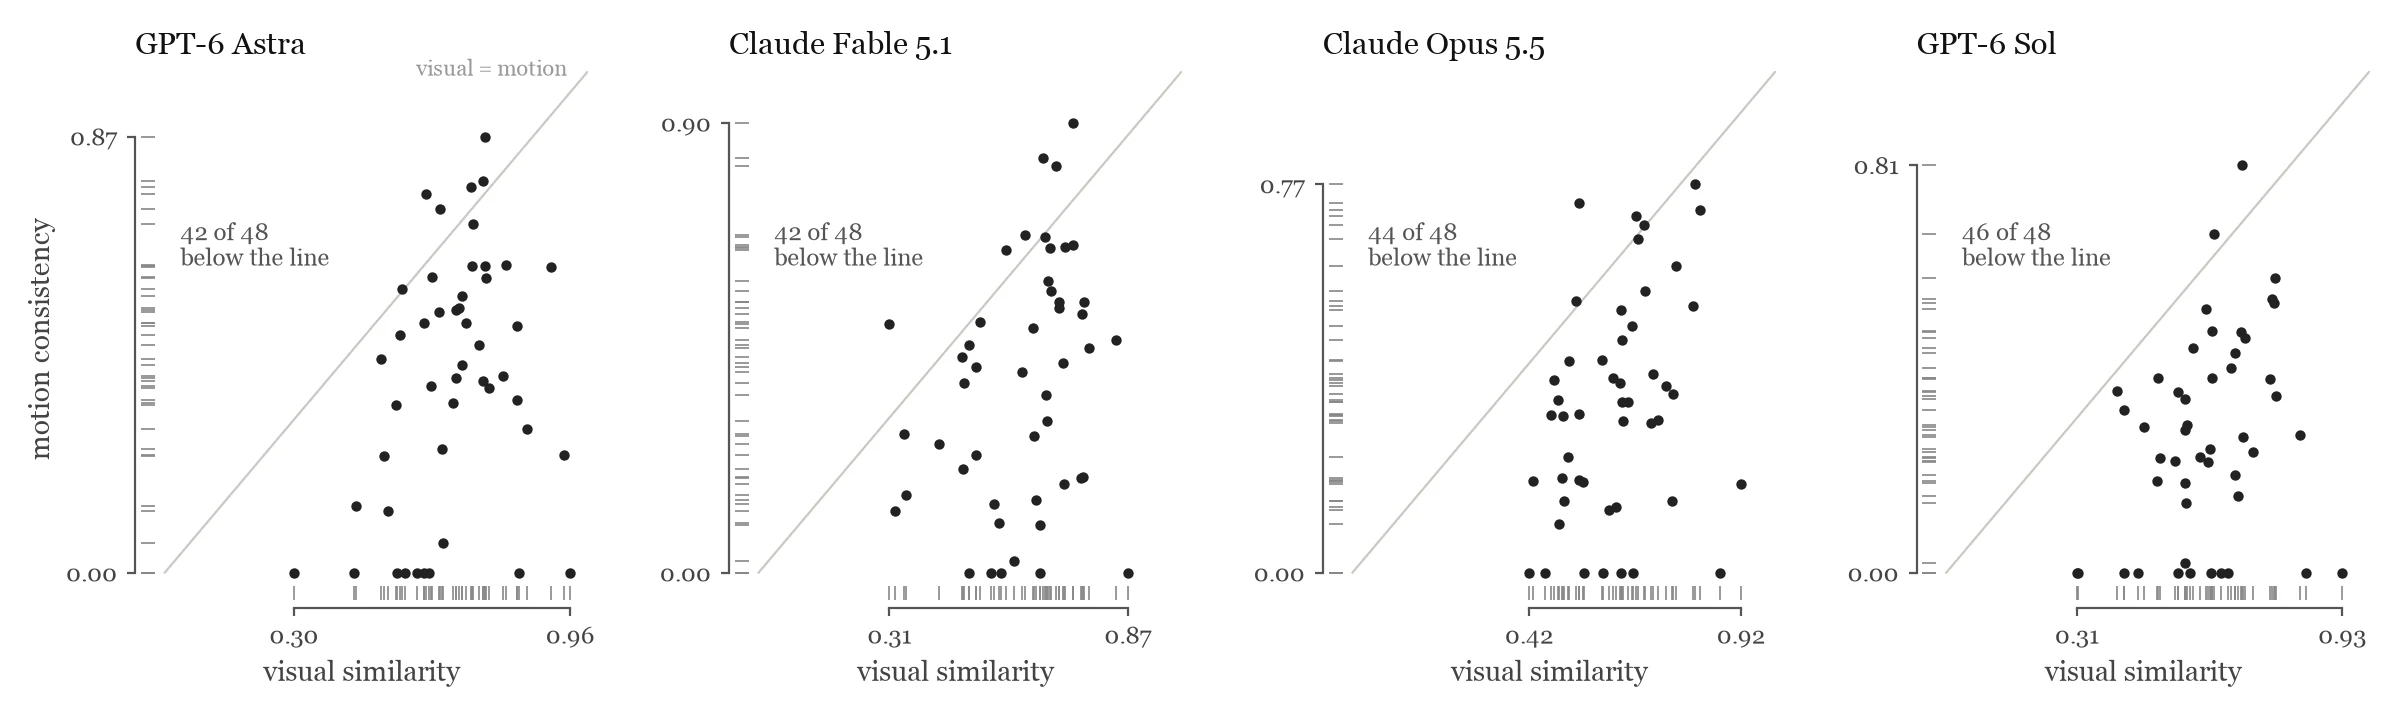
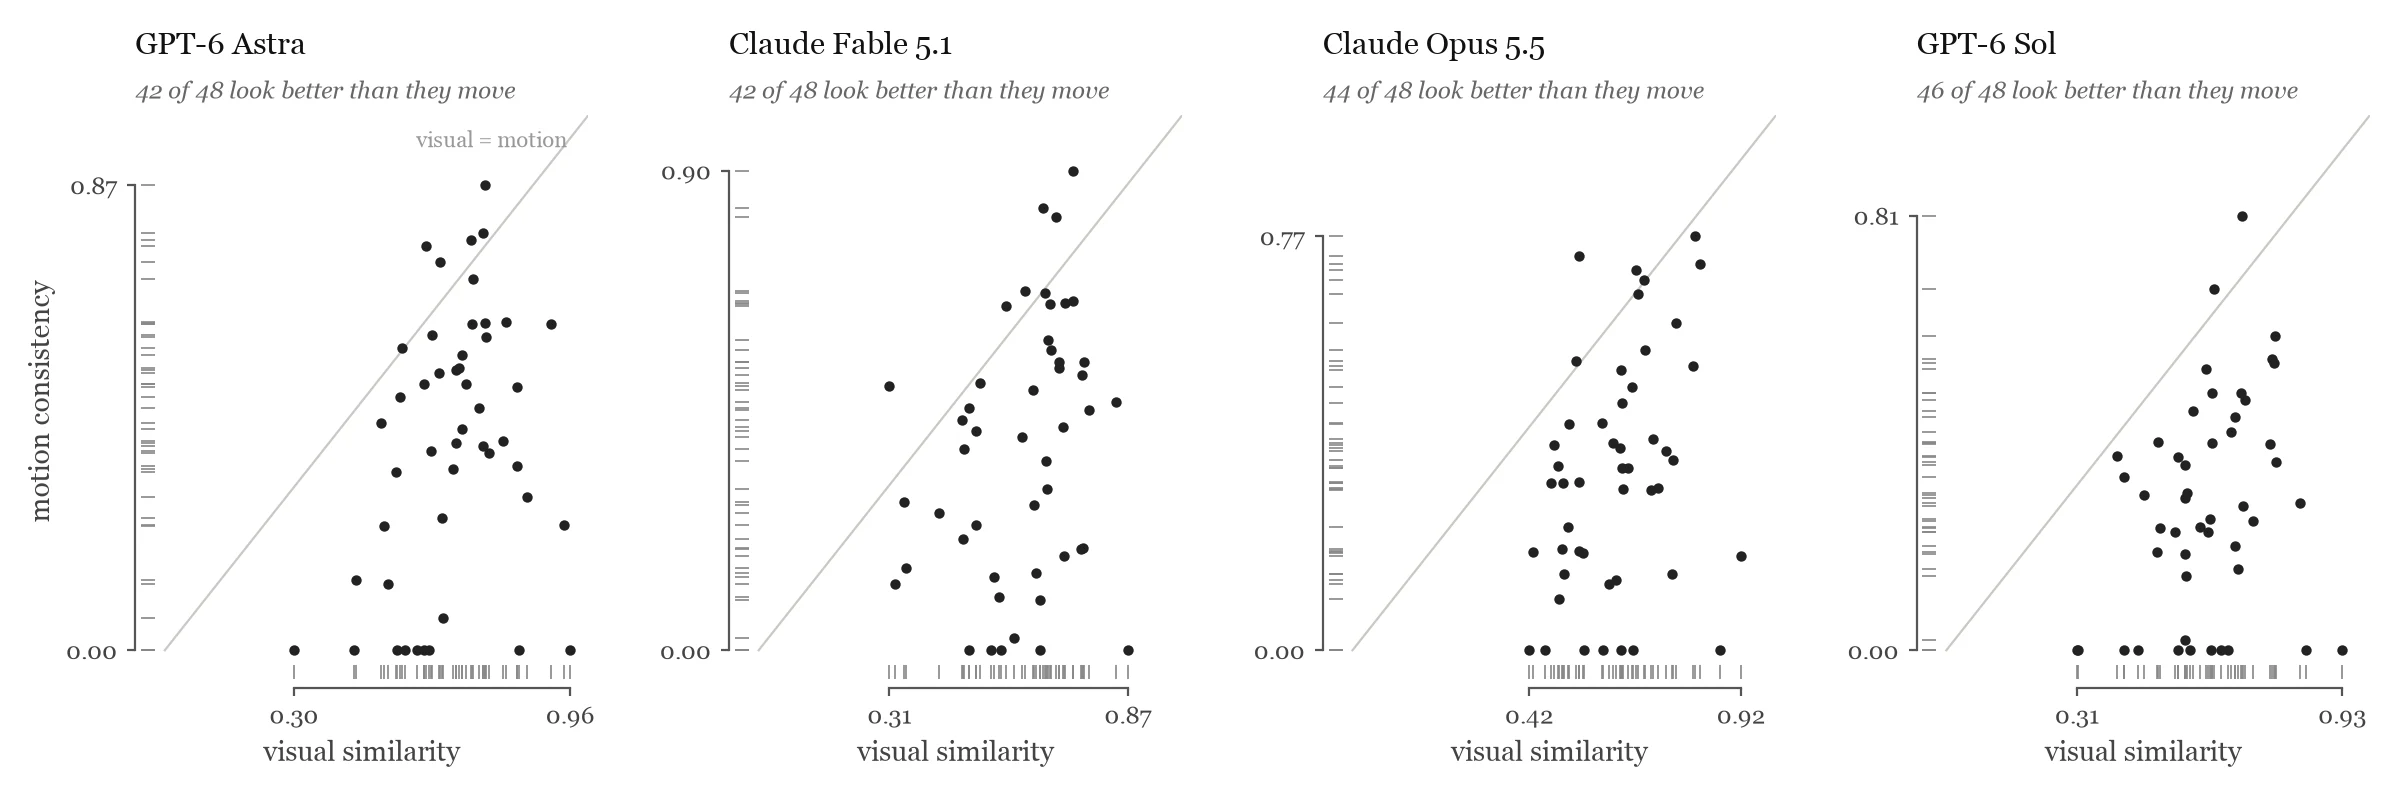
Animation Bench: clearer results chart, all-model Wispr video, why the Wispr case is hard

diff --git a/app/research/animation-bench/page.tsx b/app/research/animation-bench/page.tsx
@@ -325,7 +325,7 @@ export default function AnimationBenchPage() {
                 <p className={P}>The four models are, on the whole, closer together than a leaderboard makes them look.</p>
                 <p className={P}><strong>The field is close.</strong> GPT-6 Astra leads with a mean of 0.550 and GPT-6 Sol trails at 0.470, a spread of 0.079 across 48 tasks. Resampling the tasks (10,000 paired draws, 95% intervals), only two of the six pairwise differences hold: Astra over Sol (+0.079; +0.045 to +0.115) and Astra over Opus 5.5 (+0.051; +0.020 to +0.086). Astra’s margin over Fable 5.1 sits at the edge (+0.001 to +0.060); the rest cannot be told apart. The models also largely agree on which tasks are hard (Kendall τ 0.42–0.62 between any two), which suggests the tasks, more than the models, set the ceiling.</p>
                 <p className={P}><strong>Every model is weakest on motion.</strong> Each reproduces how a page looks far better than how it moves: visual similarity lies between 0.61 and 0.68, motion consistency between 0.27 and 0.38. Visual exceeds motion in 174 of the 192 reconstructions, by 0.30 on average, and the two are only loosely related (r = 0.30). A page that looks right is scarcely more likely to move right.</p>
-                <Fig src="/animation-bench/ab-visual-vs-motion.webp" alt="Four small scatter plots, one per model, of visual similarity against motion consistency; most points fall below the diagonal." caption="Each dot is one reconstruction. Points below the grey line look better than they move. Ticks along each axis mark every value, and the axes span only the range the data covers." />
+                <Fig src="/animation-bench/ab-visual-vs-motion.webp" alt="Four small scatter plots, one per model, of visual similarity against motion consistency; most points fall below the diagonal." caption="Each dot is one page a model built. Dots below the diagonal look better than they move: 174 of 192 do." />
                 <p className={P}><strong>Money does not settle it.</strong> Mean spend per task runs from $0.45 for Sol to $3.89 for Fable 5.1, close to a ninefold difference, against a spread in score of 0.079. Astra, at $3.04, is both the strongest and the second most expensive. Within each model, the tasks it spent more on did not score higher (Spearman ρ from −0.41 to +0.09).</p>
 
               <h2 id="failures" className="bench-h2 scroll-mt-24">What frontier models get wrong</h2>
@@ -345,7 +345,7 @@ export default function AnimationBenchPage() {
                     <li>From about 8.2 s to 9.3 s the letters of <em>Notetaker</em> ripple: each lifts and drops in turn, left to right.</li>
                     <li>By about 10.7 s the thumb slides back to <em>Dictation</em>.</li>
                   </ul>
-                  <Vid src="/animation-bench/ab-wispr-opus-fable.mp4" label="Wispr Flow toggle: the reference beside Claude Opus 5.5 and Claude Fable 5.1" caption="Wispr Flow toggle. Claude Opus 5.5 slides on time and never returns (motion 0.53); Claude Fable 5.1 starts already switched and returns on time (motion 0.46)." />
+                  <Vid src="/animation-bench/ab-wispr-all-models.mp4" label="Wispr Flow toggle: the reference above all four models" caption="Wispr Flow toggle, the reference and all four models. Opus 5.5 slides on time and never returns (motion 0.53); Fable 5.1 starts already switched and returns on time (0.46); Sol and Astra slide late, and neither ripples as the original does (0.27, 0.29)." />
                   <p className={P}>Every model recognised the component and reproduced its appearance (visual 0.80–0.85, layout ≈ 0.96 for all four). Two models also recognised the ripple and wrote the right mechanism for it: Claude Opus 5.5 a per-letter <code>@keyframes wave</code> with a 70 ms stagger; Claude Fable 5.1 a per-character transform sequence. Perception and mechanism were not the problem.</p>
                   <p className={P}>The schedule was. Each model reconstructed a different fragment of it:</p>
                   <div className="overflow-x-auto"><table className="bench-table my-6 max-w-[760px]"><thead><tr><th>Model</th><th>Slide on time (f1)</th><th>Ripple after slide</th><th>Returns on time (f10)</th></tr></thead><tbody>
@@ -355,6 +355,10 @@ export default function AnimationBenchPage() {
                     <tr><td className="whitespace-nowrap">GPT-6 Astra</td><td>7 frames late</td><td>barely</td><td>never returns</td></tr>
                   </tbody></table></div>
                   <p className={P}>Opus 5.5 scores 0.753 and Fable 5.1 0.746. The numbers call it a tie. The pages are two different half-answers. That is the failure in miniature: the models can see each part of an animation and know how to build it, but they do not recover the timeline that connects the parts — the order, the delay before the ripple, the duration, the return.</p>
+                  <p className={P}><strong>Why this case is hard.</strong> Almost nothing on screen changes. The pill is small, and each letter of the ripple lifts by only a few pixels. The stills are unevenly spaced: the first is taken almost seven seconds into the recording, a full second passes before the slide, eight quick frames about 150 ms apart catch the ripple, and a second and a half passes before the return. To rebuild it, a model has to read the timestamps as well as the pictures, and turn a few pixels of difference into a sequence with an order, a pause and a return. No single frame shows any of that.</p>
+                  <p className={P}><strong>GPT-6 Sol shows what happens when that reading fails.</strong> Its page slides the thumb 0.9 seconds after load, then flips it back and forth every 3.3 seconds, indefinitely. There is no ripple at all: the letters are never split apart, so they cannot move one at a time. Every frame of it looks right (visual 0.83, layout 0.96), and it scores 0.27 on motion.</p>
+                  <pre className="ab-pre"><code>{`setTimeout(()=>{setState('right');restartTimer()},900);
+timer=setTimeout(()=>{setState(current==='left'?'right':'left');restartTimer()},3300);`}</code></pre>
 
                 <h3 id="under" className="bench-h3 scroll-mt-24">Under-animation</h3>
                   <p className={P}>Reconstructions move less than the originals, almost never more. Only 3 of 192 carry more than twice the reference’s motion energy. Sol is the most conservative: its median reconstruction carries about a third of the reference’s motion. Even Astra, the most animated, sits below the reference at the median. Combined with the timeline finding above, the typical reconstruction is a correct-looking page with less motion, delivered faster.</p>

diff --git a/app/research/animation-bench/style.css b/app/research/animation-bench/style.css
@@ -1,2 +1,3 @@
 .ab-video{width:100%;height:auto;display:block;background:#f4f4f1}
 .ab-run{margin:26px 0 34px;max-width:900px}.ab-run ol{list-style:none;margin:0;padding:0;display:grid;grid-template-columns:repeat(5,minmax(0,1fr));gap:14px;position:relative}.ab-run li{position:relative;border:1px solid var(--bench-rule);background:#fafaf8;padding:14px 12px 13px;display:flex;flex-direction:column;gap:5px;overflow:hidden;animation:ab-run-box 7.5s infinite;animation-delay:calc(var(--i) * 1.2s)}.ab-run li::before{content:"";position:absolute;left:0;top:0;height:2px;width:100%;background:var(--bench-accent);transform:scaleX(0);transform-origin:left;animation:ab-run-bar 7.5s infinite;animation-delay:calc(var(--i) * 1.2s)}.ab-run li:not(:last-child)::after{content:"";position:absolute;right:-15px;top:50%;width:14px;height:1px;background:var(--bench-rule-2)}.ab-run li b{font-family:ui-monospace,SFMono-Regular,Menlo,monospace;font-size:15px;font-weight:600;color:var(--bench-ink)}.ab-run li small{font-size:11.5px;line-height:1.4;color:var(--bench-ink-3)}.ab-run figcaption{margin-top:12px}.ab-run li{overflow:visible}@keyframes ab-run-bar{0%{transform:scaleX(0)}10%{transform:scaleX(1)}30%{transform:scaleX(1);opacity:1}45%,100%{transform:scaleX(1);opacity:0}}@keyframes ab-run-box{0%,45%,100%{background:#fafaf8;border-color:var(--bench-rule)}8%,30%{background:#fff;border-color:var(--bench-rule-2)}}@media(max-width:760px){.ab-run ol{grid-template-columns:1fr 1fr}.ab-run li:not(:last-child)::after{display:none}}@media(prefers-reduced-motion:reduce){.ab-run li,.ab-run li::before{animation:none}.ab-run li::before{transform:scaleX(1);opacity:.35}}
+.ab-pre{margin:0 0 28px;max-width:760px;padding:12px 14px;background:#f6f6f3;border:1px solid var(--bench-rule);overflow-x:auto;font:12.5px/1.55 ui-monospace,SFMono-Regular,Menlo,monospace;color:#2b2b2b}
